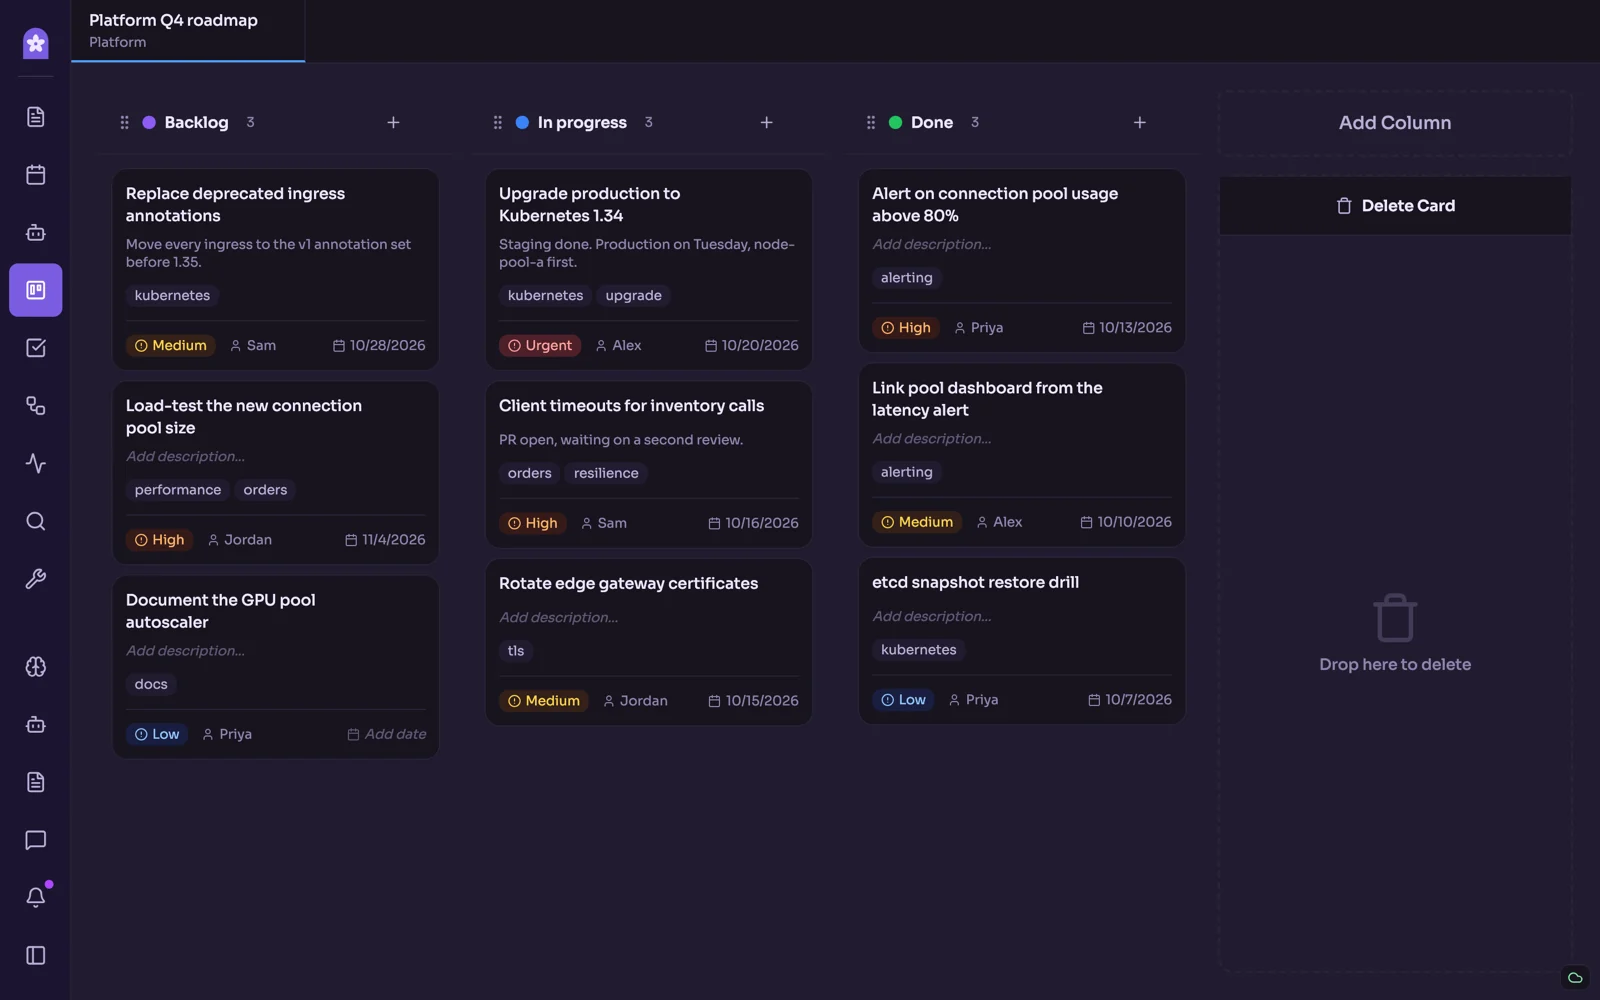
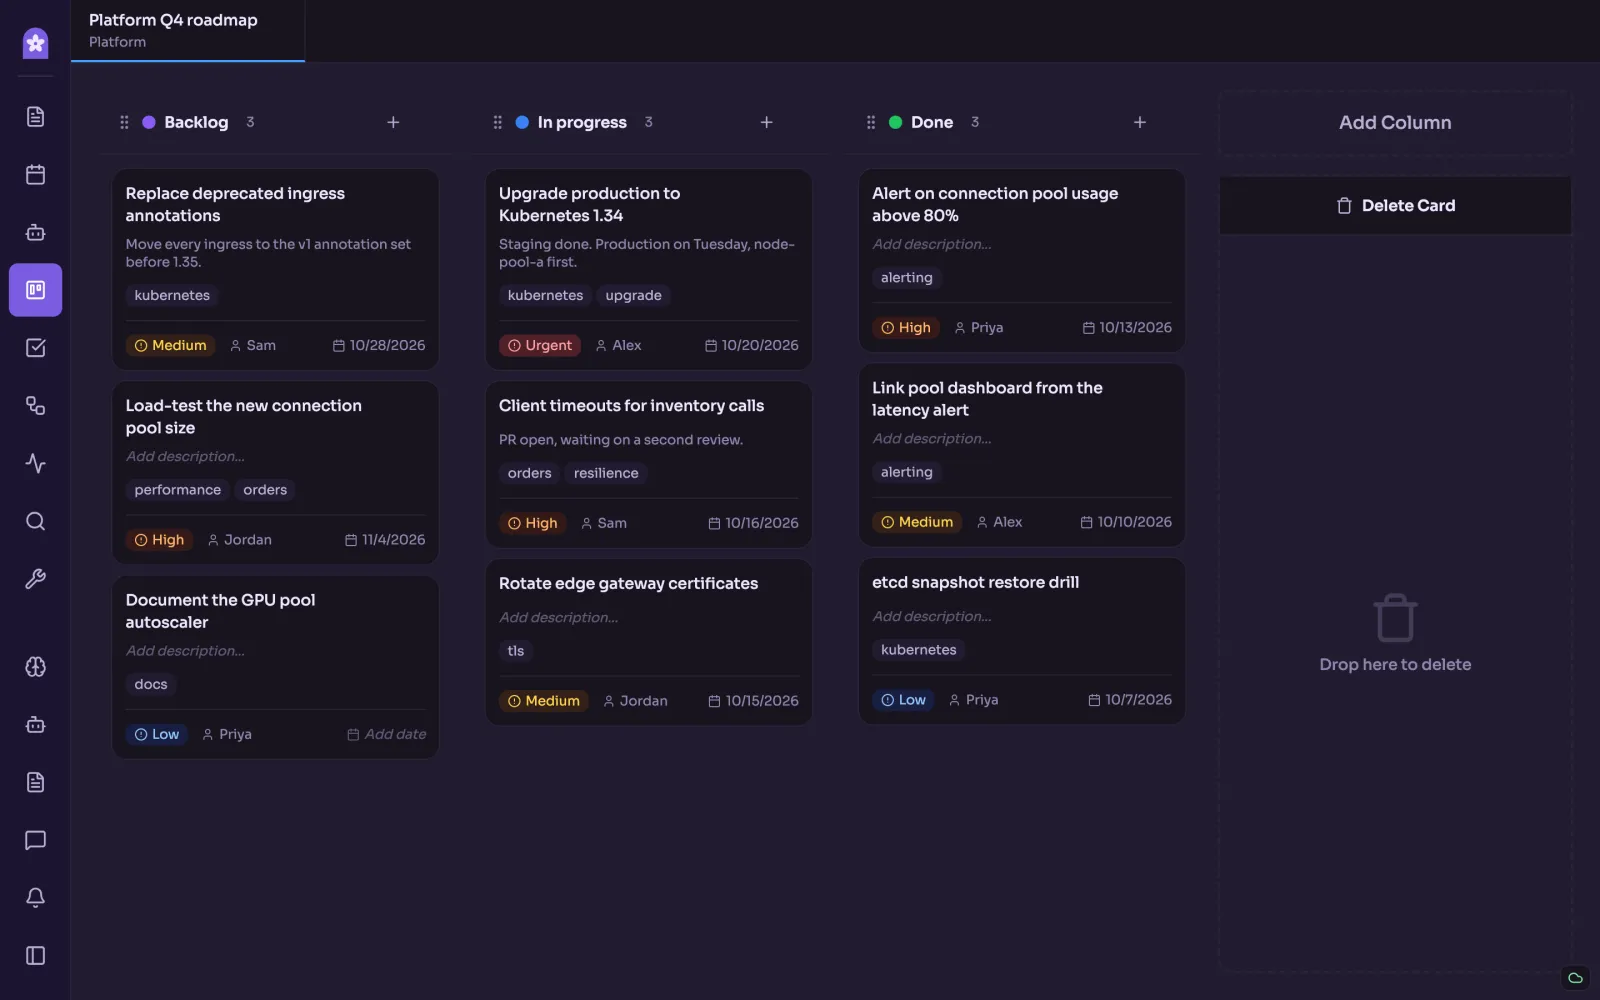
Update Pictures

diff --git a/index.html b/index.html
@@ -8,11 +8,11 @@
 <link rel="preconnect" href="https://fonts.googleapis.com">
 <link rel="preconnect" href="https://fonts.gstatic.com" crossorigin>
 <link href="https://fonts.googleapis.com/css2?family=Sora:wght@400;600;700&amp;display=swap" rel="stylesheet">
-<link rel="stylesheet" href="css/tokens.css?v=20261018a">
-<link rel="stylesheet" href="css/site.css?v=20261018a">
+<link rel="stylesheet" href="css/tokens.css?v=20261019a">
+<link rel="stylesheet" href="css/site.css?v=20261019a">
 <script>document.documentElement.classList.add('js');</script>
-<script type="module" src="js/jacaranda-tree.js?v=20261018a"></script>
-<script type="module" src="js/main.js?v=20261018a"></script>
+<script type="module" src="js/jacaranda-tree.js?v=20261019a"></script>
+<script type="module" src="js/main.js?v=20261019a"></script>
 </head>
 <body>
 <div class="page">
@@ -76,22 +76,22 @@
         </div>
         <div class="deck">
           <div class="slide" data-caption="Runbooks, incident reviews and checklists side by side: Markdown with code, tables and checklists, organised the way your team works.">
-            <img src="images/screenshots/01-documents.webp" alt="Documents view with a Kubernetes upgrade runbook open" width="1600" height="1000" decoding="async">
+            <img src="images/screenshots/01-documents.webp?v=20261019a" alt="Documents view with a Kubernetes upgrade runbook open" width="1600" height="1000" decoding="async">
           </div>
-          <div class="slide" data-caption="Open an sosreport and read it as charts: process states, top CPU and memory consumers.">
-            <img src="images/screenshots/08-diagnostics-processes.webp" alt="Diagnostics view of an sosreport with process-state and CPU charts" width="1600" height="1000" decoding="async">
+          <div class="slide" data-caption="Source on the left, a rendered document on the right: two panes, each with its own preview.">
+            <img src="images/screenshots/02-documents-split.webp?v=20261019a" alt="Split view with a runbook's Markdown source next to a rendered architecture document" width="1600" height="1000" decoding="async">
           </div>
           <div class="slide" data-caption="Your Taskwarrior tasks with projects, priorities, due dates and urgency. Start a timer, annotate, filter.">
-            <img src="images/screenshots/05-tasks.webp" alt="Taskwarrior tasks with projects, priorities and due dates" width="1600" height="1000" decoding="async">
+            <img src="images/screenshots/05-tasks.webp?v=20261019a" alt="Taskwarrior tasks with projects, priorities and due dates" width="1600" height="1000" decoding="async">
           </div>
           <div class="slide" data-caption="Plan the quarter on a board: tags, priorities, assignees and due dates on every card.">
-            <img src="images/screenshots/04-kanban.webp" alt="Kanban board for a Q4 platform roadmap" width="1600" height="1000" decoding="async">
+            <img src="images/screenshots/04-kanban.webp?v=20261019a" alt="Kanban board for a Q4 platform roadmap" width="1600" height="1000" decoding="async">
           </div>
           <div class="slide" data-caption="Wire up checks and notifications on a canvas: HTTP requests, comparisons, branches and results.">
-            <img src="images/screenshots/06-workflow-builder.webp" alt="Workflow builder with a health check, a condition and a webhook" width="1600" height="1000" decoding="async">
+            <img src="images/screenshots/06-workflow-builder.webp?v=20261019a" alt="Workflow builder with a health check, a condition and a webhook" width="1600" height="1000" decoding="async">
           </div>
           <div class="slide" data-caption="Ask Robin about a stuck rollout and get commands you can paste, with the provider you choose, including local models.">
-            <img src="images/screenshots/07-robin-chat.webp" alt="Robin AI chat debugging a stuck Kubernetes rollout" width="1600" height="1000" decoding="async">
+            <img src="images/screenshots/07-robin-chat.webp?v=20261019a" alt="Robin AI chat debugging a stuck Kubernetes rollout" width="1600" height="1000" decoding="async">
           </div>
         </div>
         <div class="frame-foot">
@@ -110,28 +110,16 @@
         <div class="device-body">
         <div class="deck phone-deck">
           <div class="slide" data-caption="Read a runbook on the go.">
-            <img src="images/screenshots/phone-document-reader.webp" alt="Runbook open in the reader on a phone" width="590" height="991" decoding="async">
-          </div>
-          <div class="slide" data-caption="Edit Markdown with line numbers and a formatting toolbar.">
-            <img src="images/screenshots/phone-document-editor.webp" alt="Runbook open in the Markdown editor on a phone" width="590" height="991" decoding="async">
+            <img src="images/screenshots/phone-documents.webp?v=20261019a" alt="Runbook open in the reader on a phone" width="786" height="1704" decoding="async">
           </div>
           <div class="slide" data-caption="Check a workflow on your phone, edit it on desktop.">
-            <img src="images/screenshots/phone-workflow.webp" alt="Read-only workflow with a health check and a branch on a phone" width="590" height="991" decoding="async">
+            <img src="images/screenshots/phone-workflow.webp?v=20261019a" alt="Read-only workflow with a health check and a branch on a phone" width="786" height="1704" decoding="async">
           </div>
           <div class="slide" data-caption="The board, one column at a time.">
-            <img src="images/screenshots/phone-kanban.webp" alt="Kanban board on a phone" width="590" height="991" decoding="async">
+            <img src="images/screenshots/phone-kanban.webp?v=20261019a" alt="Kanban board on a phone" width="786" height="1704" decoding="async">
           </div>
           <div class="slide" data-caption="Your tasks with priorities, due dates and a timer.">
-            <img src="images/screenshots/phone-tasks.webp" alt="Task list on a phone" width="590" height="991" decoding="async">
-          </div>
-          <div class="slide" data-caption="The same runbook in the light theme.">
-            <img src="images/screenshots/phone-document-reader-light.webp" alt="Runbook in the reader, light theme, on a phone" width="590" height="991" decoding="async">
-          </div>
-          <div class="slide" data-caption="The board in the light theme.">
-            <img src="images/screenshots/phone-kanban-light.webp" alt="Kanban board, light theme, on a phone" width="590" height="991" decoding="async">
-          </div>
-          <div class="slide" data-caption="Tasks in the light theme.">
-            <img src="images/screenshots/phone-tasks-light.webp" alt="Task list, light theme, on a phone" width="590" height="991" decoding="async">
+            <img src="images/screenshots/phone-tasks.webp?v=20261019a" alt="Task list on a phone" width="786" height="1704" decoding="async">
           </div>
         </div>
         <div class="frame-foot phone-foot">

diff --git a/css/site.css b/css/site.css
@@ -84,14 +84,14 @@ img { max-width: 100%; }
 .device[data-back] .device-switch { display: block; }
 
 .phone { position: absolute; left: 0; bottom: -3%; width: 29%; max-width: 250px; padding: 8px; border-radius: 36px; background: var(--bg-card); box-shadow: 0 0 0 1px var(--line-strong), 0 40px 80px -30px #000000, 0 20px 40px -20px #2A1F4D; transform-origin: 0% 100%; }
-.phone-deck { aspect-ratio: 590 / 991; margin: 0; }
+.phone-deck { aspect-ratio: 786 / 1704; margin: 0; }
 .phone-deck .slide, .phone-deck .slide-ph { border-radius: 28px; }
 .phone-deck .slide-ph { padding: 12px; gap: 8px; }
 .phone-deck .slide-ph-title { font-size: 12px; }
 .phone-foot { flex-direction: column; gap: 6px; padding: 10px 0 4px; }
 .phone-foot .frame-caption { flex: none; text-align: center; font-size: 12px; }
 .phone-foot .carousel-controls { flex-wrap: nowrap; gap: 2px; }
-.phone-foot .dot { width: 14px; }
+.phone-foot .dot { width: 20px; }
 
 .device-stack[data-front="desktop"] .frame { z-index: 2; transform: var(--tilt); }
 .device-stack[data-front="desktop"] .phone { z-index: 1; transform: var(--tilt) translate3d(-30%, -4%, 0) scale(0.78); filter: brightness(0.55) saturate(0.8); }

diff --git a/faq.html b/faq.html
@@ -8,8 +8,8 @@
 <link rel="preconnect" href="https://fonts.googleapis.com">
 <link rel="preconnect" href="https://fonts.gstatic.com" crossorigin>
 <link href="https://fonts.googleapis.com/css2?family=Sora:wght@400;600;700&amp;display=swap" rel="stylesheet">
-<link rel="stylesheet" href="css/tokens.css?v=20261018a">
-<link rel="stylesheet" href="css/site.css?v=20261018a">
+<link rel="stylesheet" href="css/tokens.css?v=20261019a">
+<link rel="stylesheet" href="css/site.css?v=20261019a">
 <script>document.documentElement.classList.add('js');</script>
 </head>
 <body>
